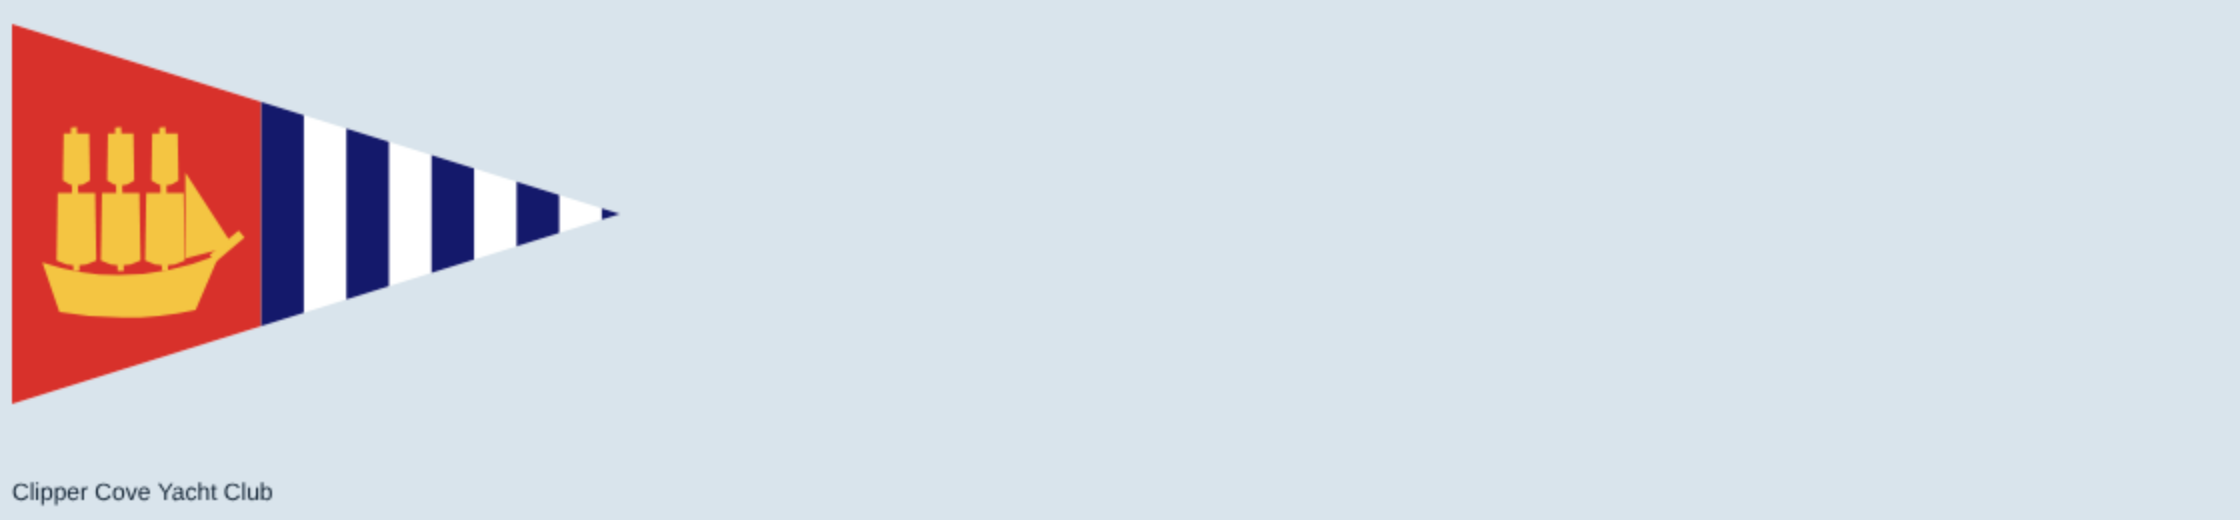
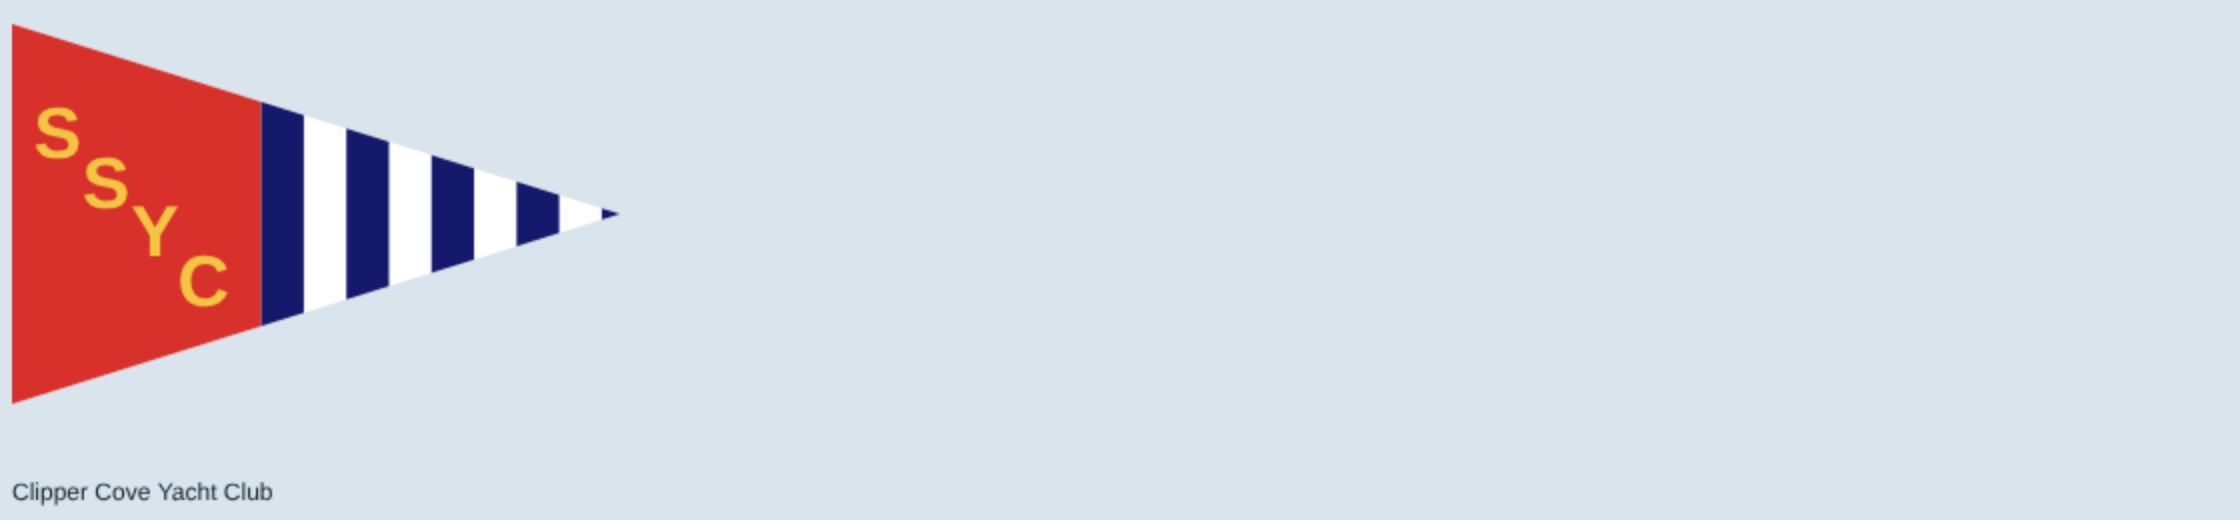
Burgees: Clipper Cove, the boat replaced by the gold letters SSYC on a diagonal across the red panel
Claude-Session: https://claude.ai/code/session_012Uu5QjYRsEpBxuz7xgHWhs

Changed region(s): [[0.0, 0.1846, 0.125, 0.6154]]

diff --git a/src/render/burgeeArt.ts b/src/render/burgeeArt.ts
@@ -130,24 +130,11 @@ export const PARODY_BURGEES: Burgee[] = [
     draw: (g, W, H) => { fill(g, W, H, '#f2c200'); wheel(g, W * 0.27, H * 0.5, H * 0.29, '#14295c', '#f2c200'); } },
   { id: 'mhpyc', shape: 'pennant', ratio: 1.6, // Monarch Point: three equal bands, one for each club that merged in 1974: monarch orange, sunflower yellow, harbor teal
     draw: (g, W, H) => { rect(g, '#e8590c', 0, 0, W, H / 3); rect(g, '#f6c026', 0, H / 3, W, H / 3); rect(g, '#0f5d6b', 0, H * 2 / 3, W, H / 3); } },
-  { id: 'tiyc', shape: 'pennant', ratio: 1.6, // Clipper Cove, from the owner's reference (to flag for IP review: the layout is a real club's): a red hoist panel bearing one gold clipper under sail, then navy and white stripes to the point
+  { id: 'tiyc', shape: 'pennant', ratio: 1.6, // Clipper Cove, from the owner's reference (to flag for IP review: the layout is a real club's): a red hoist panel bearing the gold letters SSYC on a diagonal, then navy and white stripes to the point
     draw: (g, W, H) => { fill(g, W, H, WHITE); rect(g, '#d8312b', 0, 0, W * 0.41, H);
       for (let i = 0; i < 9; i += 2) rect(g, '#14196b', W * (0.41 + i * 0.07), 0, W * 0.07, H);
-      const gold = '#f4c542', x0 = W * 0.05, y0 = H * 0.25, w = W * 0.28, h = H * 0.54;
-      const X = (x: number) => x0 + x * w, Y = (y: number) => y0 + y * h;
-      g.fillStyle = gold; g.strokeStyle = gold; g.lineCap = 'butt';
-      // the hull: a long, low, sweeping sheer, the stern a little raised, the bow raked
-      g.beginPath(); g.moveTo(X(0.0), Y(0.7)); g.quadraticCurveTo(X(0.5), Y(0.84), X(1.04), Y(0.66)); g.lineTo(X(0.9), Y(0.93)); g.quadraticCurveTo(X(0.5), Y(1.0), X(0.1), Y(0.94)); g.closePath(); g.fill();
-      g.lineWidth = h * 0.045; g.beginPath(); g.moveTo(X(1.0), Y(0.68)); g.lineTo(X(1.17), Y(0.56)); g.stroke(); // the bowsprit
-      // three masts, each carrying two billowed square sails with a gap between
-      for (const m of [0.2, 0.46, 0.72]) {
-        g.lineWidth = h * 0.03; g.beginPath(); g.moveTo(X(m), Y(0.74)); g.lineTo(X(m - 0.015), Y(0.04)); g.stroke();
-        for (const [t, b, hw] of [[0.07, 0.3, 0.075], [0.36, 0.69, 0.11]]) {
-          g.beginPath(); g.moveTo(X(m - hw), Y(t)); g.lineTo(X(m + hw), Y(t)); g.lineTo(X(m + hw * 1.06), Y(b));
-          g.quadraticCurveTo(X(m), Y(b + 0.05), X(m - hw * 1.06), Y(b)); g.closePath(); g.fill();
-        }
-      }
-      g.beginPath(); g.moveTo(X(0.84), Y(0.68)); g.lineTo(X(0.84), Y(0.26)); g.lineTo(X(1.12), Y(0.62)); g.closePath(); g.fill(); } },
+      g.fillStyle = '#f4c542'; g.font = `bold ${Math.round(H * 0.19)}px Arial, Helvetica, sans-serif`; g.textAlign = 'center'; g.textBaseline = 'middle';
+      'SSYC'.split('').forEach((ch, i) => g.fillText(ch, W * (0.075 + i * 0.08), H * (0.3 + i * 0.13))); } },
   // ---- Marin
   { id: 'sfyc', shape: 'swallow', ratio: 1.67, // the reference classic, the oldest club: strict red, white and dark blue; a white field under a double border, one dark-blue anchor (the first to drop one on this coast)
     draw: (g, W, H) => { fill(g, W, H, WHITE); border(g, W, H, 'swallow', RED, 0.075); border(g, W, H, 'swallow', NAVY, 0.045);
